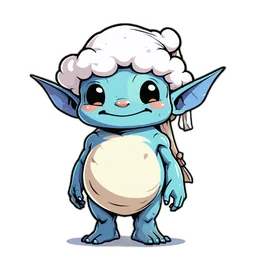
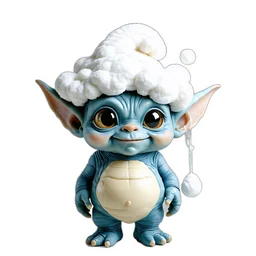
Greebles 0.11.1: touch up 5 Greebles (Tide Pup, Drift, Ash Pup, Ash Greeble, Rift Pup)

diff --git a/scripts/gen11.py b/scripts/gen11.py
@@ -76,8 +76,13 @@ D = {
 # 0.11 round 2: stricter ears for the stubborn ones
 T2 = ("goblin creature with two pointed elf-like goblin ears made of solid skin, flat round face with no snout, big round eyes, tiny nose, wide friendly grin, cream belly, "
       "chubby round body, short arms and legs, no tail, no wings. Cute 2D flat vector sticker, thick black outline, cel shaded, full body standing, centered, plain white background")
-N2 = N + ", bat ears, membrane ears, veined ears, ear membranes, fins, fin ears, frills, pikachu ears, yellow mouse, turtle, ghost"
+N2 = N + ", spiral, swirl, spiral belly, bubble, translucent, transparent, slime, bat ears, membrane ears, veined ears, ear membranes, fins, fin ears, frills, pikachu ears, yellow mouse, turtle, ghost"
 D2 = {
+ 'tidling': 'tiny baby blue goblin wearing a bright yellow raincoat and yellow rain boots, holding a little toy bucket',
+ 'iskari': 'pale white and mint goblin holding the string of a red paper kite, wearing a light teal scarf blowing in the wind',
+ 'ashpup': 'tiny baby lavender goblin toddler wearing a big yellow hard hat too large for its head, holding a little candle',
+ 'gleck': 'tall lean dusky purple-grey goblin miner with a red bandana tied on its head, a pickaxe over its shoulder and a sack of rocks',
+ 'riftling': 'small lavender goblin kid wearing an oversized purple hoodie, hands in the hoodie pocket, cheeky grin',
  'riftling': 'small lavender goblin kid with a messy purple tuft of hair and a torn violet scarf, mischievous grin',
  'caelithar': 'white and sky-blue goblin with plain pointed ears, wearing aviator goggles, a brown leather flight jacket and a long blue scarf',
  'verdance': 'bright-green goblin with a crown of pink and yellow flowers on its head and a leafy green poncho, holding a flowering staff',

diff --git a/CHANGELOG.md b/CHANGELOG.md
@@ -1,5 +1,11 @@
 # Greebles — What's New
 
+## 0.11.1 — Five more touch-ups
+- 🎨 Tide Pup now wears a yellow raincoat and boots and no longer looks see-through.
+- 🎨 Drift Greeble is paler with a cloud on its head, so it's easy to tell apart from Tide Pup.
+- 🎨 Ash Pup looks like a little baby now, and Ash Greeble is a tall miner with an axe, so the two are easy to tell apart.
+- 🎨 Rift Pup lost the swirl on its belly.
+
 ## 0.11.0 — Every Greeble looks like a Greeble
 - 🎨 61 of the 72 Greebles have been redrawn. Before, many looked like little dragons or bats, with wings, bat ears or lizard tails. Now every one is clearly the same goblin species: pointed goblin ears, a flat face and a big grin.
 - 🧢 Each family has its own outfit or prop, so they're easier to tell apart: miner lamps, raincoats, pirate hats, boxing gloves, headphones, crowns and more.
